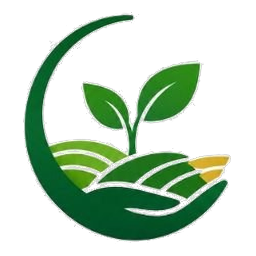
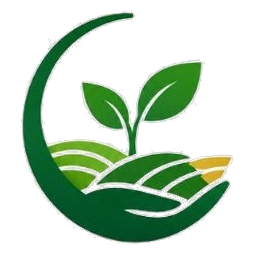
fix(branding): use clean transparent emblem and cache-busted asset in portal headers

diff --git a/apps/kvk_portal/src/components/layout/app_header.tsx b/apps/kvk_portal/src/components/layout/app_header.tsx
@@ -2,7 +2,7 @@ import React from 'react';
 import { Link } from 'react-router-dom';
 import { authStore } from '../../core/auth/auth_store';
 import { Bell, UserCircle2 } from 'lucide-react';
-import bhoomiLogo from '../../assets/bhoomi.png';
+import bhoomiLogo from '../../assets/bhoomi_emblem.png';
 
 export const AppHeader: React.FC = () => {
   const agronomist = authStore.getCurrentAgronomist();
@@ -16,7 +16,7 @@ export const AppHeader: React.FC = () => {
           alt="BHOOMI Logo"
           className="h-10 w-10 rounded-xl object-contain shadow-xs border border-slate-100 bg-emerald-50/50 p-0.5"
           onError={(e) => {
-            (e.target as HTMLImageElement).src = '/bhoomi.png';
+            (e.target as HTMLImageElement).src = '/bhoomi_emblem.png';
           }}
         />
         <div>

diff --git a/apps/officer_portal/src/components/layout/app_header.tsx b/apps/officer_portal/src/components/layout/app_header.tsx
@@ -2,7 +2,7 @@ import React from 'react';
 import { Link } from 'react-router-dom';
 import { UserCheck, Activity } from 'lucide-react';
 import { authStore } from '../../core/auth/auth_store';
-import bhoomiLogo from '../../assets/bhoomi.png';
+import bhoomiLogo from '../../assets/bhoomi_emblem.png';
 
 export const AppHeader: React.FC = () => {
   const officer = authStore.getCurrentOfficer();
@@ -16,7 +16,7 @@ export const AppHeader: React.FC = () => {
           alt="BHOOMI Logo"
           className="h-10 w-10 rounded-xl object-contain shadow-xs border border-slate-100 bg-emerald-50/50 p-0.5"
           onError={(e) => {
-            (e.target as HTMLImageElement).src = '/bhoomi.png';
+            (e.target as HTMLImageElement).src = '/bhoomi_emblem.png';
           }}
         />
         <div>
